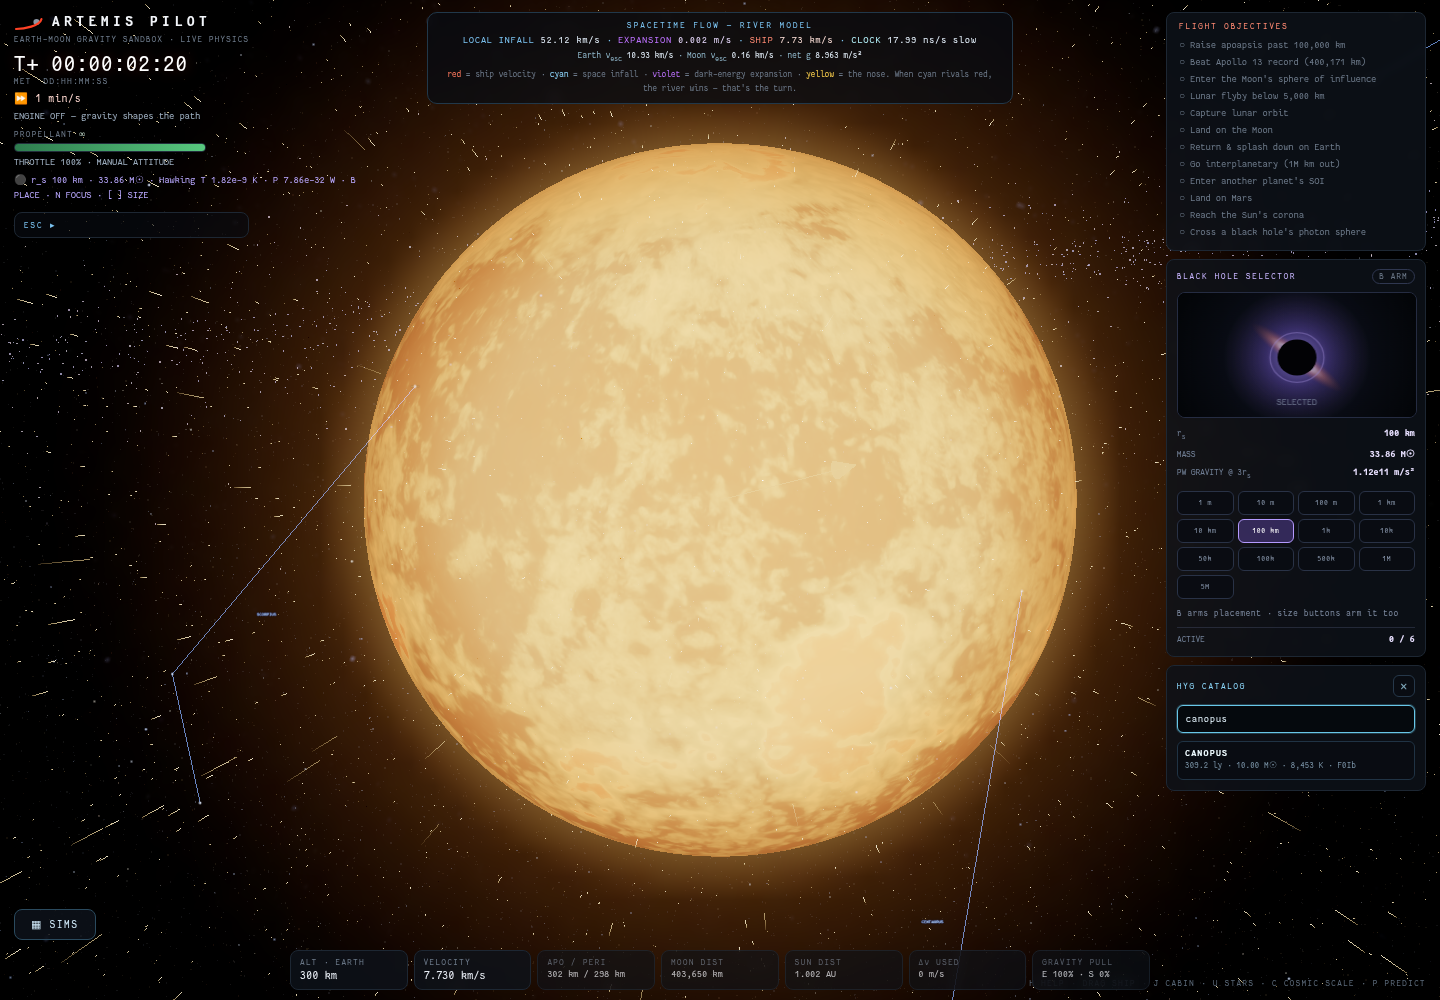
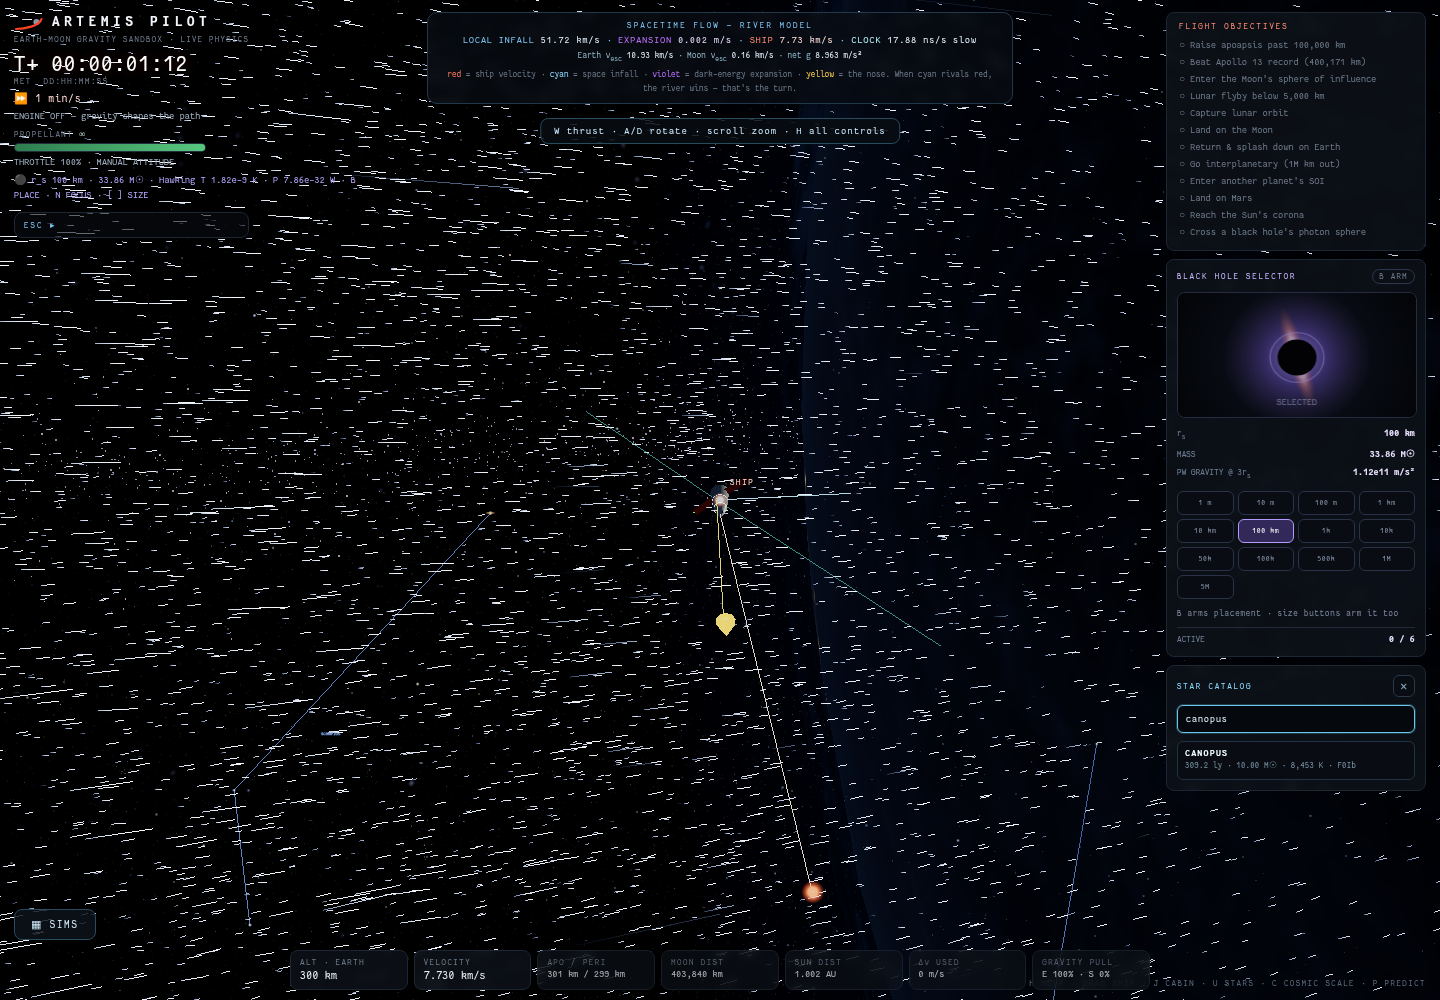
Add active stellar neighborhood browser

diff --git a/src/catalogSearch.js b/src/catalogSearch.js
@@ -1,4 +1,7 @@
 import { addRuntimeStar, CATALOG_PROMOTION_MAX, INITIAL_STAR_COUNT, LY_KM, R_SUN, STARS } from "./constants.js";
+import {
+    ACTIVE_STARS, ACTIVE_STAR_CONFIG, activeStarFocusValue, activeStarStats, refreshActiveStars,
+} from "./universe/activeStars.js";
 import { loadHygCatalogData, loadHygCatalogMeta } from "./universe/catalogData.js";
 import {
     catalogPhysicsUsable, catalogRuntimeRadiusSolar, hygCatalogFocusValue, hygStarByIndex, registerHygCatalog,
@@ -8,7 +11,11 @@ const PC_LY = 3.261563777;
 const PC_KM = LY_KM * PC_LY;
 const SOLAR_TEMP_K = 5772;
 
-let hooks = { onPromote: () => { }, onFocusCatalog: () => { }, toast: () => { } };
+let hooks = {
+    onPromote: () => { }, onFocusCatalog: () => { }, onFocusActive: () => { },
+    getActiveOrigin: () => ({ wx: 0, wy: 0, wz: 0, focus: "ship" }),
+    toast: () => { },
+};
 let ui = null;
 let labelMap = null;
 let searchTimer = 0;
@@ -184,6 +191,45 @@ function describeStar(star) {
     return [formatLy(star.dLy), mass, temp, star.spect].filter(Boolean).join(" · ");
 }
 
+function formatActiveDistance(km) {
+    const ly = km / LY_KM;
+    return ly < .01 ? (ly * 63241.077).toFixed(1) + " AU" : formatLy(ly);
+}
+
+function describeActiveStar(star, dKm, source, focus) {
+    const mass = Number.isFinite(star.mass) ? star.mass.toFixed(star.mass < 1 ? 3 : 2) + " M☉" : "";
+    const radius = Number.isFinite(star.radiusSolar) ? star.radiusSolar.toFixed(star.radiusSolar < 1 ? 3 : 2) + " R☉" : "";
+    const temp = Number.isFinite(star.tempK) ? Math.round(star.tempK).toLocaleString("en-US") + " K" : "";
+    const lum = Number.isFinite(star.lumSolar) ? star.lumSolar.toFixed(star.lumSolar < 1 ? 4 : 2) + " L☉" : "";
+    const kind = star.spect || star.cls || "";
+    return [source, formatActiveDistance(dKm), mass, radius, temp, lum, kind, focus].filter(Boolean).join(" · ");
+}
+
+function activeSource(star) {
+    if (star.activeCatalog) return { label: "HYG V4.1 CATALOG ROW", key: "hyg" };
+    if (star.procedural) return { label: "SEEDED MILKY WAY MODEL ROW", key: "procedural" };
+    return { label: "CURATED", key: "known" };
+}
+
+export function activeNeighborhoodRows(limit = 10) {
+    const origin = hooks.getActiveOrigin?.() || {};
+    const wx = Number.isFinite(origin.wx) ? origin.wx : 0;
+    const wy = Number.isFinite(origin.wy) ? origin.wy : 0;
+    const wz = Number.isFinite(origin.wz) ? origin.wz : 0;
+    const focus = origin.focus || "ship";
+    refreshActiveStars(wx, wy, wz, focus);
+    return ACTIVE_STARS
+        .filter(star => (star.procedural || star.activeCatalog) && activeStarFocusValue(star))
+        .map(star => {
+            const dx = wx - star.x, dy = wy - star.y, dz = wz - (star.z || 0);
+            const source = activeSource(star);
+            const dKm = Math.hypot(dx, dy, dz);
+            return { star, focus: activeStarFocusValue(star), source: source.label, sourceKey: source.key, dKm };
+        })
+        .sort((a, b) => a.dKm - b.dKm || a.star.name.localeCompare(b.star.name))
+        .slice(0, Math.max(0, limit));
+}
+
 function sameNamedDestination(a, b) {
     const aa = canonicalDestinationName(a);
     const bb = canonicalDestinationName(b);
@@ -268,6 +314,44 @@ function renderMessage(text) {
     ui.results.appendChild(div);
 }
 
+function focusActiveNeighborhood(row) {
+    hooks.onFocusActive(row.focus, row.star, row);
+    setOpen(false);
+    return row.focus;
+}
+
+function renderActiveNeighborhood() {
+    ui.results.innerHTML = "";
+    const rows = activeNeighborhoodRows(12);
+    const stats = activeStarStats();
+    const head = document.createElement("div");
+    head.className = "hygEmpty hygActiveIntro";
+    head.textContent = "ACTIVE NEIGHBORHOOD · NEARBY GRAVITY SOURCES STREAMED AROUND THE SHIP · " +
+        stats.total + "/" + ACTIVE_STAR_CONFIG.totalLimit + " LIVE SOURCES";
+    ui.results.appendChild(head);
+    if (!rows.length) {
+        const div = document.createElement("div");
+        div.className = "hygEmpty";
+        div.textContent = "NO ACTIVE PROCEDURAL OR HYG STARS NEAR THE SHIP";
+        ui.results.appendChild(div);
+        return;
+    }
+    for (const row of rows) {
+        const btn = document.createElement("button");
+        btn.className = "hygResult hygActiveResult";
+        btn.type = "button";
+        btn.dataset.focus = row.focus;
+        btn.dataset.source = row.sourceKey;
+        const name = document.createElement("strong");
+        name.textContent = row.star.name;
+        const details = document.createElement("span");
+        details.textContent = describeActiveStar(row.star, row.dKm, row.source, row.focus);
+        btn.append(name, details);
+        btn.onclick = () => focusActiveNeighborhood(row);
+        ui.results.appendChild(btn);
+    }
+}
+
 async function promoteIndex(index) {
     const { meta, vals } = await loadCatalog();
     const row = labelMap?.get(index) || null;
@@ -306,7 +390,7 @@ async function renderResults() {
     if (!ui) return;
     const query = ui.input.value;
     if (!query.trim()) {
-        renderMessage("TYPE NAME / HIP / HD / HR / INDEX");
+        renderActiveNeighborhood();
         return;
     }
     renderMessage("LOADING HYG CATALOG");
@@ -340,7 +424,7 @@ async function renderResults() {
 export function openCatalogSearch(seed = "") {
     if (!ui) return;
     setOpen(true);
-    if (seed) ui.input.value = seed;
+    ui.input.value = seed || "";
     ui.input.focus();
     renderResults();
 }
@@ -380,7 +464,10 @@ export function initCatalogSearch(options = {}) {
         e.stopPropagation();
         if (e.code === "Escape") closeCatalogSearch();
         if (e.code === "Enter") {
-            focusCatalogQuery(ui.input.value).catch(err => hooks.toast(err?.message || String(err)));
+            if (!ui.input.value.trim()) {
+                const row = activeNeighborhoodRows(1)[0];
+                if (row) focusActiveNeighborhood(row);
+            } else focusCatalogQuery(ui.input.value).catch(err => hooks.toast(err?.message || String(err)));
         }
     });
     if (ui.close) ui.close.onclick = closeCatalogSearch;

diff --git a/src/main.js b/src/main.js
@@ -1,7 +1,7 @@
 import * as THREE from "three";
 import {
     R_EARTH, R_MOON, R_SUN, SUN_RADIUS, PL, K, SOI_M, BH_MAX,
-    MAIN_A, RCS_A, BOOST, ROT_RATE, MU_E, MU_M, MU_S, DARK_ENERGY, LY_SCENE, STARS,
+    MAIN_A, RCS_A, BOOST, ROT_RATE, MU_E, MU_M, MU_S, DARK_ENERGY, LY_SCENE, LY_KM, STARS,
     OMEGA_EARTH, FUEL_DV0, warpLabel,
 } from "./constants.js";
 import { G, WORLD, keys, BH, resetShip, destroyBody, isBodyDestroyed, addGhost, rebaseBHEvents } from "./state.js";
@@ -315,6 +315,9 @@ function ensureStarLabel(i) {
 for (let i = 0; i < STARS.length; i++) ensureStarLabel(i);
 initCatalogSearch({
     toast,
+    getActiveOrigin() {
+        return { wx: eph.earthX + G.x, wy: eph.earthY + G.y, wz: G.z, focus: G.focus };
+    },
     onPromote(i, star, existing, reason = "promote") {
         addStarVisual(star);
         ensureStarLabel(i);
@@ -330,6 +333,13 @@ initCatalogSearch({
         unlockBodyPrediction();
         computePrediction();
         toast("HYG destination focused · " + star.name + " · " + star.dLy.toFixed(2) + " ly");
+    },
+    onFocusActive(focus, star, row) {
+        addStarVisual(star);
+        setFocus(focus);
+        unlockBodyPrediction();
+        computePrediction();
+        toast(row.source + " focused · " + star.name + " · " + (row.dKm / LY_KM).toFixed(2) + " ly");
     },
 });
 

diff --git a/index.html b/index.html
@@ -71,8 +71,8 @@
         <div id="bhActiveList"></div>
       </div>
       <div id="hygSearch" class="panel" aria-live="polite">
-        <div id="hygHead"><span>HYG CATALOG</span><button id="hygClose" type="button">×</button></div>
-        <input id="hygQuery" autocomplete="off" spellcheck="false" placeholder="NAME / HIP / HD / HR / INDEX" />
+        <div id="hygHead"><span>STAR CATALOG</span><button id="hygClose" type="button">×</button></div>
+        <input id="hygQuery" autocomplete="off" spellcheck="false" placeholder="ACTIVE NEARBY / NAME / HIP / HD / HR / INDEX" />
         <div id="hygResults"></div>
       </div>
       <div id="toasts"></div>
@@ -115,7 +115,7 @@
         <tr><td>SHIFT+F</td><td>cycle the planets (Mercury … Neptune)</td></tr>
         <tr><td>C</td><td>cycle Solar System / Milky Way / Local Group scale</td></tr>
         <tr><td>U</td><td>cycle nearby stellar destinations</td></tr>
-        <tr><td>SHIFT+U</td><td>search HYG catalog and focus a physical destination</td></tr>
+        <tr><td>SHIFT+U</td><td>browse active nearby stars or search HYG catalog</td></tr>
         <tr><td>J</td><td>toggle in-ship cabin view</td></tr>
         <tr><td>0 / click label</td><td>focus ship / focus body and lock its trajectory</td></tr>
         <tr><td>hold-drag ship</td><td>grab the ship deliberately, then release with a damped velocity</td></tr>

diff --git a/src/style.css b/src/style.css
@@ -93,9 +93,13 @@ body.bh-place-mode #bhPlaceHint { color: #d8cfff; text-shadow: 0 0 10px rgba(148
 .hygResult { width: 100%; border: 1px solid #203344; border-radius: 6px; padding: 6px 7px;
   background: rgba(8,12,18,.82); color: #b8c9d8; text-align: left; font-family: inherit; cursor: pointer; }
 .hygResult:hover { border-color: #68c7e8; background: rgba(15,26,36,.9); }
+.hygActiveResult { border-color: #274152; }
+.hygActiveResult[data-source="procedural"] { border-color: #354054; }
+.hygActiveResult[data-source="hyg"] { border-color: #1f4d59; }
 .hygResult strong { display: block; color: #eefbff; font-size: 10px; letter-spacing: .1em; overflow-wrap: anywhere; }
 .hygResult span { display: block; margin-top: 2px; color: #7891a4; font-size: 9px; line-height: 1.35; overflow-wrap: anywhere; }
 .hygEmpty { color: #6d7a8a; font-size: 9px; line-height: 1.45; letter-spacing: .08em; }
+.hygActiveIntro { color: #8fb6c9; padding: 1px 0 3px; }
 #objList { margin: 6px 0 0; padding: 0; list-style: none; }
 #objList li { font-size: 10px; line-height: 1.7; color: #6d7a8a; }
 #objList li.done { color: #7fe0a2; }

diff --git a/README.md b/README.md
@@ -16,7 +16,7 @@ A physics-true VR travel simulator in Three.js. The framing: far-future AI-human
 - **Stellar destinations with physics**: curated nearby/famous stars, a capped HYG physical subset, plus SGR A* (4.15M solar masses, accretion disk, polar jets) as real-distance 3D RA/declination destinations with live gravity and contact surfaces — fly there and die in a photosphere or photon sphere of your choosing.
 - **Real catalog sky layer**: the Solar System sky and cosmic view asynchronously load a compact HYG v4.1 point cloud of 119,625 Hipparcos/Yale/Gliese stars. The close sky uses apparent magnitude, B-V color, bright-star labels, and readable constellation/asterism guide linework; the binary catalog also carries absolute magnitude, luminosity, temperature, estimated mass, and estimated radius, with direct HYG search targets wired into the fast gravity/navigation loops.
 - **Streaming full-scale stellar field**: a bounded active-neighborhood layer keeps curated stars and indexed HYG v4.1 rows in priority, then fills the ship's local 8 pc sphere with deterministic seed-generated Milky Way stars. The active set feeds gravity, contact, dominant-well orbit/capture, clock-rate, river, prediction, and lensing paths while staying capped for browser frame budgets.
-- **Durable catalog travel**: HYG search focuses stable `hyg:<index>` targets directly, quicksave preserves those focus tokens, and older promoted HYG destinations still restore with their physical fields after a refresh.
+- **Durable catalog travel**: Shift+U browses the ship's active procedural/HYG neighborhood, HYG search focuses stable `hyg:<index>` targets directly, quicksave preserves those focus tokens, and older promoted HYG destinations still restore with their physical fields after a refresh.
 - **Mouse inertial control**: hold the ship marker deliberately, pull it through space, and release; the damped release velocity becomes the ship's new momentum.
 - **Spacetime river view** with GPU particle flow around Earth, Moon, Sun, planets, black holes, and boosted dark-energy expansion.
 - **Dynamic black holes** with configurable Schwarzschild radius, Paczynski-Wiita capture behavior, mergers, Hawking readouts, accretion visuals, and dark event-horizon cores.
@@ -89,7 +89,7 @@ The static build is written to `dist/`.
 | `Shift+F` | Cycle planets |
 | `C` | Cycle Solar System, Milky Way, and Local Group scale |
 | `U` | Cycle nearby physical stellar destinations |
-| `Shift+U` | Search HYG catalog and focus a physical star destination |
+| `Shift+U` | Browse active nearby stars or search HYG catalog |
 | `J` | Toggle in-ship cabin view |
 | `0` or body label click | Focus a body and lock its trajectory prediction |
 | Hold-drag on ship | Deliberately grab and throw the ship; release preserves a damped drag velocity |